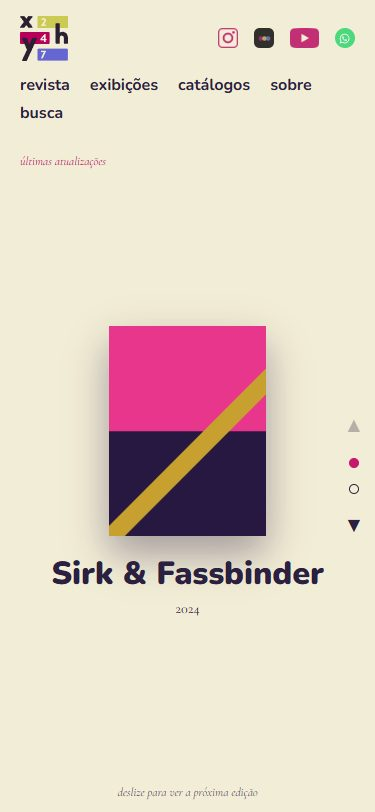
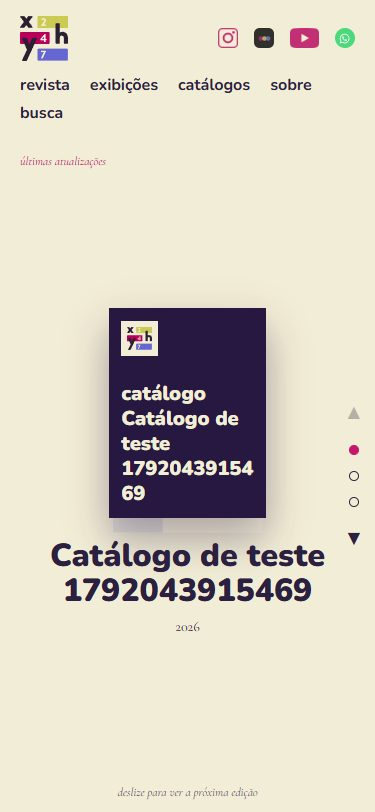
adiciona o GIF do roteiro da demonstração e atualiza os prints com os dados novos

Changed region(s): [[0.1173, 0.3695, 0.88, 0.8005], [0.9093, 0.4926, 0.968, 0.6773]]

diff --git a/README.md b/README.md
@@ -34,6 +34,8 @@ Roteiro sugerido: página inicial → uma edição da revista → um texto → b
 → painel: início → abrir a revista → editar um texto (o rascunho fica guardado no navegador)
 → ver no site → excluir uma exibição (diálogo com contagem) → sair.
 
+![O roteiro em 15 segundos: home, revista, texto, busca, login de demonstração e painel](docs/img/demonstracao.gif)
+
 
 ## Em 30 segundos
 
